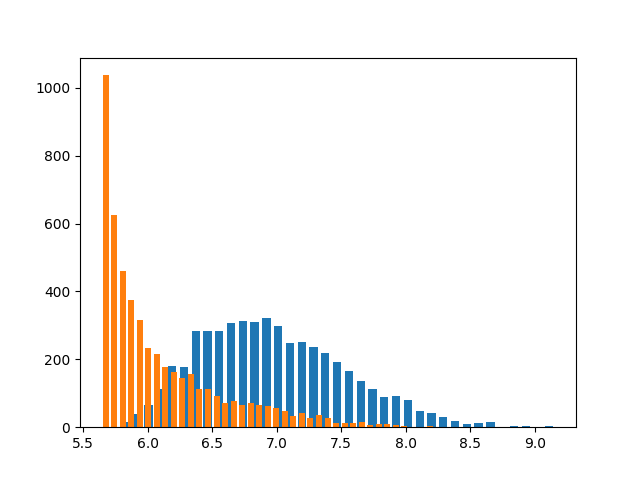
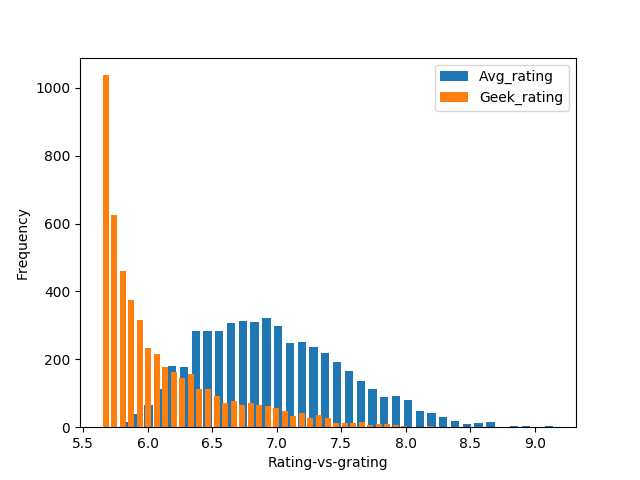
Improved histograms readibility

Changed region(s): [[0.6875, 0.125, 0.9062, 0.2188], [0.4062, 0.9375, 0.5938, 1.0], [0.0312, 0.4375, 0.0625, 0.5938]]

diff --git a/data-analysis/data_analyzer.py b/data-analysis/data_analyzer.py
@@ -16,11 +16,15 @@ import matplotlib.pyplot as plt
 DATA_FILE = "board-game-data/bgg_db_1806.csv"
 OUTPUT = "data-analysis/analysis.csv"
 
-def plot(narray, name, save=True, close=True, intervals="auto"):
+def plot(narray, name, save=True, close=True, intervals="auto", legend=False):
     hist, bins = np.histogram(narray, bins=intervals)
     width = 0.7 * (bins[1] - bins[0])
     center = (bins[:-1] + bins[1:]) / 2
     plt.bar(center, hist, align='center', width=width)
+    plt.xlabel(name.capitalize())
+    plt.ylabel("Frequency")
+    if legend:
+        plt.legend(legend)
     if save:
         plt.savefig(f"data-analysis/img/{name}")
     if close:
@@ -42,5 +46,5 @@ plot(data["num_votes"], name="num_votes", intervals="sqrt")
 plot(data["owned"], name="owned", intervals="sqrt")
 
 # plot combined graph
-plot(data["avg_rating"], name=None, save=False, close=False)
-plot(data["geek_rating"], name="Rating-vs-GRating", save=True, close=True)
+plot(data["avg_rating"], name="", save=False, close=False)
+plot(data["geek_rating"], name="Rating-vs-GRating", save=True, close=True, legend=["Avg_rating", "Geek_rating"])
